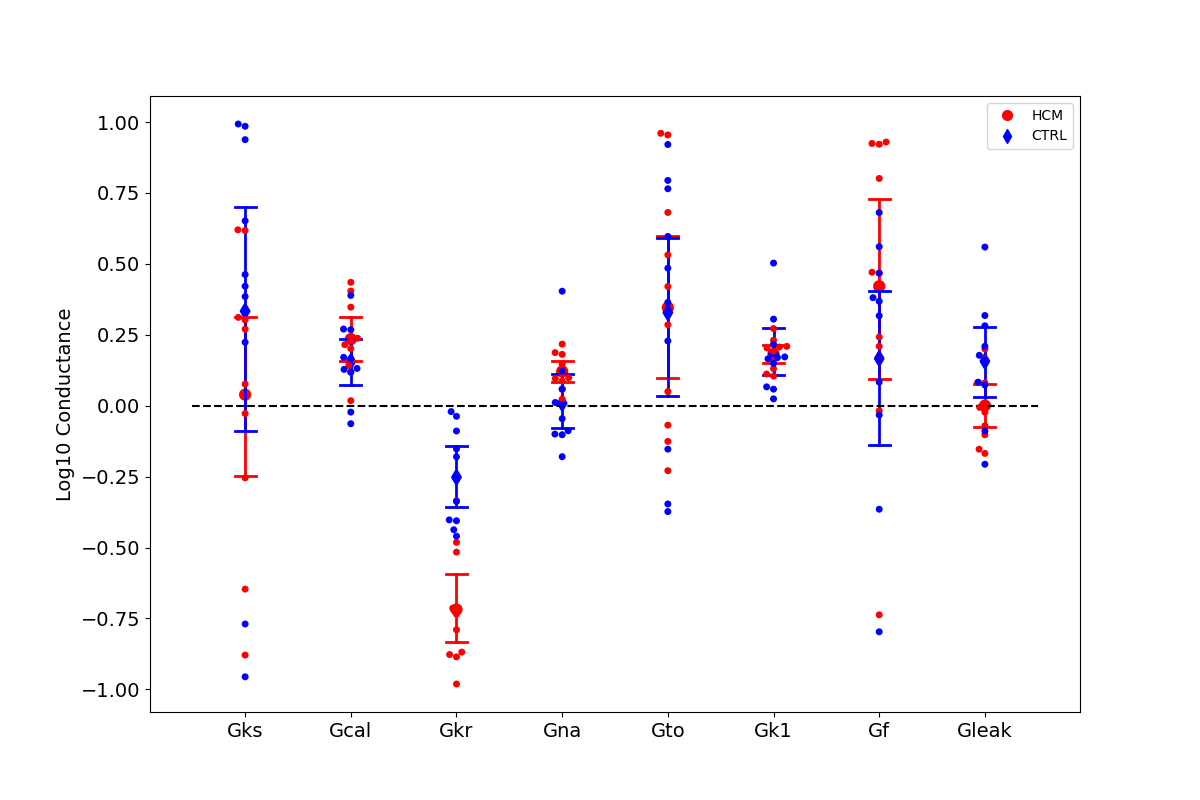
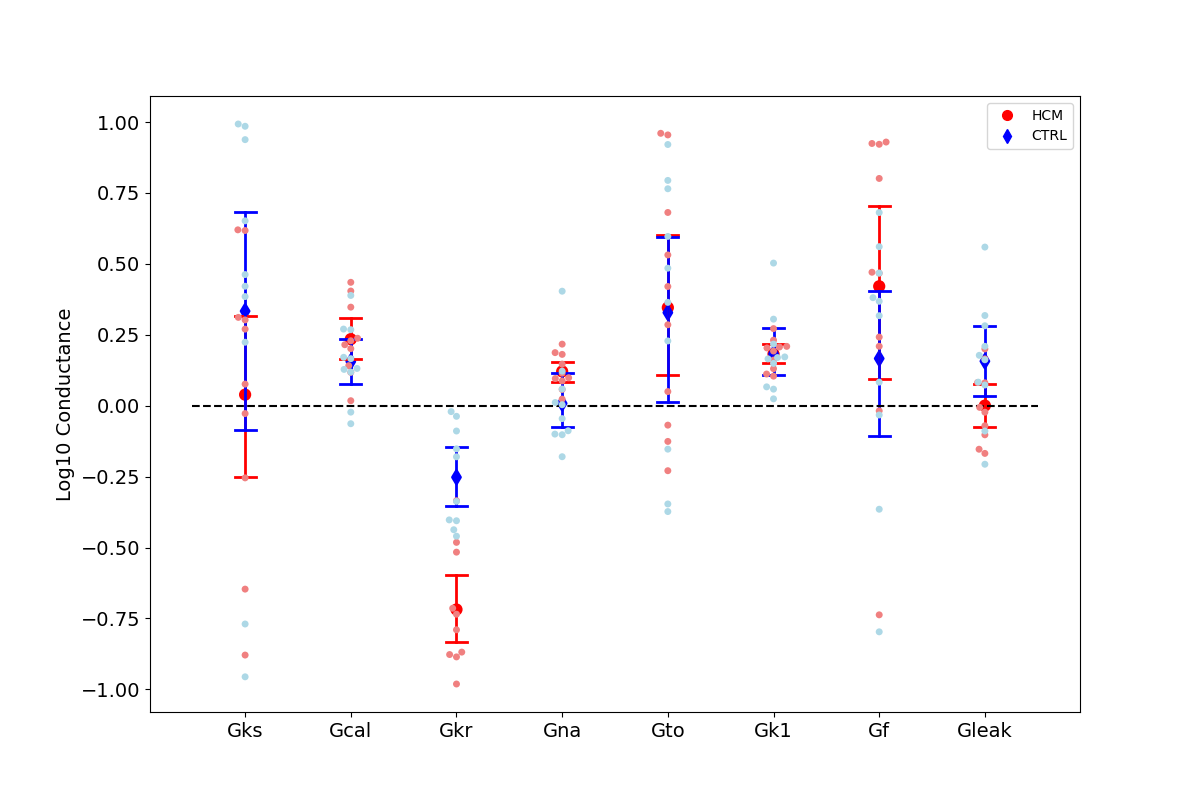
new

diff --git a/bar_plot.py b/bar_plot.py
@@ -44,10 +44,10 @@ df_ctrl = pd.read_excel('Cond_CTRL.xlsx')
 
 plt.figure(figsize=(12,8))
 
-sns.swarmplot(df_hcm, palette=sns.color_palette(['red','red','red','red','red','red','red','red']))
-sns.swarmplot(df_ctrl, palette=sns.color_palette(['blue','blue','blue','blue','blue','blue','blue','blue']))
 sns.pointplot(df_hcm, join=False, capsize=.2, color='red', markers='o', errwidth=2)
 sns.pointplot(df_ctrl, join=False, capsize=.2, color='blue', markers='d', errwidth=2)
+sns.swarmplot(df_hcm, palette=sns.color_palette(['lightcoral','lightcoral','lightcoral','lightcoral','lightcoral','lightcoral','lightcoral','lightcoral']))
+sns.swarmplot(df_ctrl, palette=sns.color_palette(['lightblue','lightblue','lightblue','lightblue','lightblue','lightblue','lightblue','lightblue']))
 
 red_circle = mlines.Line2D([], [], color='red', marker='o', linestyle='None', markersize=7, label='HCM')
 blue_diamond = mlines.Line2D([], [], color='blue', marker='d', linestyle='None', markersize=7, label='CTRL')
